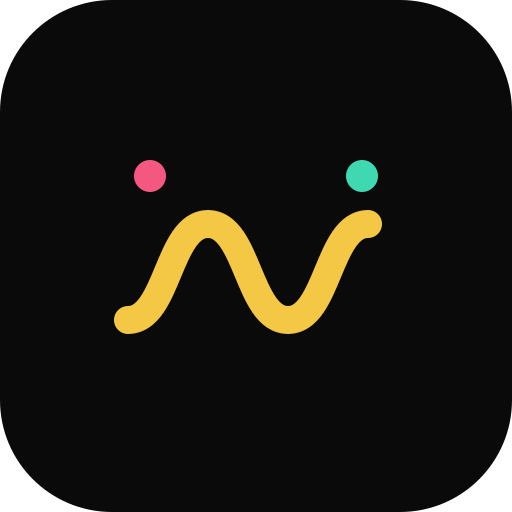
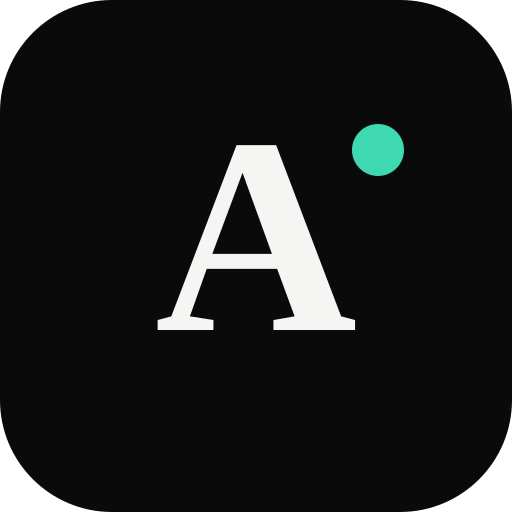
Rebranding: renomeia app para "Amorim" e ajusta copy da landing
Substitui o nome genérico "Fluxo" pela marca pessoal "Amorim" (logo,
manifest do PWA, título, ícones e README). Reescreve o headline e os
badges flutuantes da landing para diferenciar mais da inspiração
visual, e adiciona uma seção "Por que o Amorim existe" com um texto
mais pessoal/autoral, assinando o rodapé.

Claude-Session: https://claude.ai/code/session_011ZHZQGnwizWU54vSz9DZrj

Changed region(s): [[0.2188, 0.2812, 0.75, 0.6562], [0.6562, 0.2188, 0.8125, 0.375], [0.25, 0.3125, 0.3438, 0.375]]

diff --git a/src/pages/Landing.tsx b/src/pages/Landing.tsx
@@ -52,16 +52,16 @@ export default function Landing() {
       <section className="relative overflow-hidden px-4 pb-24 pt-16 md:px-8 md:pt-24">
         <div className="mx-auto max-w-3xl text-center">
           <h1 className="text-4xl font-extrabold leading-[1.1] tracking-tight md:text-6xl">
-            Cuide da sua grana
+            Sua vida financeira,
             <br />
-            sem perder tempo com
+            organizada com
             <br />
-            <span className="text-teal">planilha</span>
+            <span className="text-teal">carinho</span>
           </h1>
           <p className="mx-auto mt-6 max-w-xl text-balance text-base text-muted md:text-lg">
-            Registre receitas e despesas, acompanhe metas e veja para onde seu
-            dinheiro está indo — tudo em um dashboard simples, direto no seu
-            navegador.
+            O Amorim te ajuda a registrar receitas e despesas, acompanhar
+            metas e enxergar pra onde seu dinheiro está indo — sem planilha,
+            sem complicação.
           </p>
           <div className="mt-8 flex items-center justify-center gap-3">
             <Link to="/app">
@@ -114,11 +114,11 @@ export default function Landing() {
             </div>
           </div>
 
-          <div className="absolute -left-16 top-10 z-20 hidden rotate-[-6deg] items-center gap-2 whitespace-nowrap rounded-full bg-pink px-4 py-2 text-sm font-semibold text-bg shadow-xl md:flex">
-            🎯 Meta batida!
+          <div className="absolute -left-10 -top-6 z-20 hidden rotate-[-6deg] items-center gap-2 whitespace-nowrap rounded-full bg-pink px-4 py-2 text-sm font-semibold text-bg shadow-xl md:flex">
+            🔥 Streak de 7 dias
           </div>
-          <div className="absolute -right-14 bottom-16 z-20 hidden rotate-[6deg] items-center gap-2 whitespace-nowrap rounded-full bg-yellow px-4 py-2 text-sm font-semibold text-bg shadow-xl md:flex">
-            +18% economia
+          <div className="absolute -right-8 -bottom-6 z-20 hidden rotate-[6deg] items-center gap-2 whitespace-nowrap rounded-full bg-yellow px-4 py-2 text-sm font-semibold text-bg shadow-xl md:flex">
+            💰 Meta em dia
           </div>
         </div>
       </section>
@@ -175,9 +175,21 @@ export default function Landing() {
         </div>
       </section>
 
+      <section className="border-t border-border px-4 py-16 md:px-8">
+        <div className="mx-auto max-w-xl text-center">
+          <h2 className="text-lg font-semibold text-ink">Por que o Amorim existe</h2>
+          <p className="mt-3 text-sm text-muted">
+            Cansei de planilha que ninguém atualiza e de app de banco que só
+            mostra extrato. Criei o Amorim pra ter, num só lugar, uma visão
+            simples e honesta de pra onde vai o meu dinheiro — e resolvi
+            deixar aberto pra quem quiser usar também.
+          </p>
+        </div>
+      </section>
+
       <footer className="border-t border-border px-4 py-8 text-center text-xs text-subtle md:px-8">
         <Logo className="mx-auto mb-3 justify-center" />
-        Feito com dedicação para ajudar você a cuidar da sua grana.
+        Um projeto criado por Amorim, com carinho pela sua grana.
       </footer>
     </div>
   );

diff --git a/src/components/ui/Logo.tsx b/src/components/ui/Logo.tsx
@@ -1,19 +1,11 @@
 export function Logo({ className = "" }: { className?: string }) {
   return (
     <div className={`flex items-center gap-2 ${className}`}>
-      <svg width="28" height="28" viewBox="0 0 512 512" fill="none">
-        <rect width="512" height="512" rx="112" fill="#0A0A0B" />
-        <path
-          d="M128 320c40 0 40-96 80-96s40 96 80 96 40-96 80-96"
-          stroke="#F4C744"
-          strokeWidth="28"
-          strokeLinecap="round"
-          strokeLinejoin="round"
-        />
-        <circle cx="150" cy="176" r="16" fill="#F4577F" />
-        <circle cx="362" cy="176" r="16" fill="#3ED9B0" />
-      </svg>
-      <span className="font-script text-2xl leading-none text-ink">fluxo</span>
+      <span className="relative flex h-8 w-8 items-center justify-center rounded-xl bg-surface-2 text-sm font-bold text-ink">
+        A
+        <span className="absolute -right-0.5 -top-0.5 h-2 w-2 rounded-full bg-teal" />
+      </span>
+      <span className="font-script text-2xl leading-none text-ink">Amorim</span>
     </div>
   );
 }

diff --git a/index.html b/index.html
@@ -8,7 +8,7 @@
     <meta name="theme-color" content="#0a0a0b" />
     <meta
       name="description"
-      content="Fluxo — controle suas receitas, despesas, contas e metas financeiras em um só lugar."
+      content="Amorim — controle suas receitas, despesas, contas e metas financeiras em um só lugar."
     />
     <link rel="preconnect" href="https://fonts.googleapis.com" />
     <link rel="preconnect" href="https://fonts.gstatic.com" crossorigin />
@@ -16,7 +16,7 @@
       href="https://fonts.googleapis.com/css2?family=Caveat:wght@600;700&family=Inter:wght@400;500;600;700;800&display=swap"
       rel="stylesheet"
     />
-    <title>Fluxo — Gestão Financeira</title>
+    <title>Amorim — Gestão Financeira</title>
   </head>
   <body>
     <div id="root"></div>

diff --git a/vite.config.ts b/vite.config.ts
@@ -12,8 +12,8 @@ export default defineConfig({
       registerType: 'autoUpdate',
       includeAssets: ['favicon.svg'],
       manifest: {
-        name: 'Fluxo — Gestão Financeira',
-        short_name: 'Fluxo',
+        name: 'Amorim — Gestão Financeira',
+        short_name: 'Amorim',
         description: 'Gestão financeira pessoal simples e inteligente.',
         theme_color: '#0a0a0b',
         background_color: '#0a0a0b',

diff --git a/src/lib/storage.ts b/src/lib/storage.ts
@@ -1,4 +1,4 @@
-const STORAGE_KEY = "fluxo:data:v1";
+const STORAGE_KEY = "amorim:data:v1";
 
 export function loadState<T>(fallback: T): T {
   try {

diff --git a/README.md b/README.md
@@ -1,4 +1,4 @@
-# Fluxo — Gestão Financeira
+# Amorim — Gestão Financeira
 
 PWA de gestão financeira pessoal: controle de receitas e despesas, dashboard com gráficos, metas de economia, orçamento por categoria e gerenciamento de contas/cartões.
 
